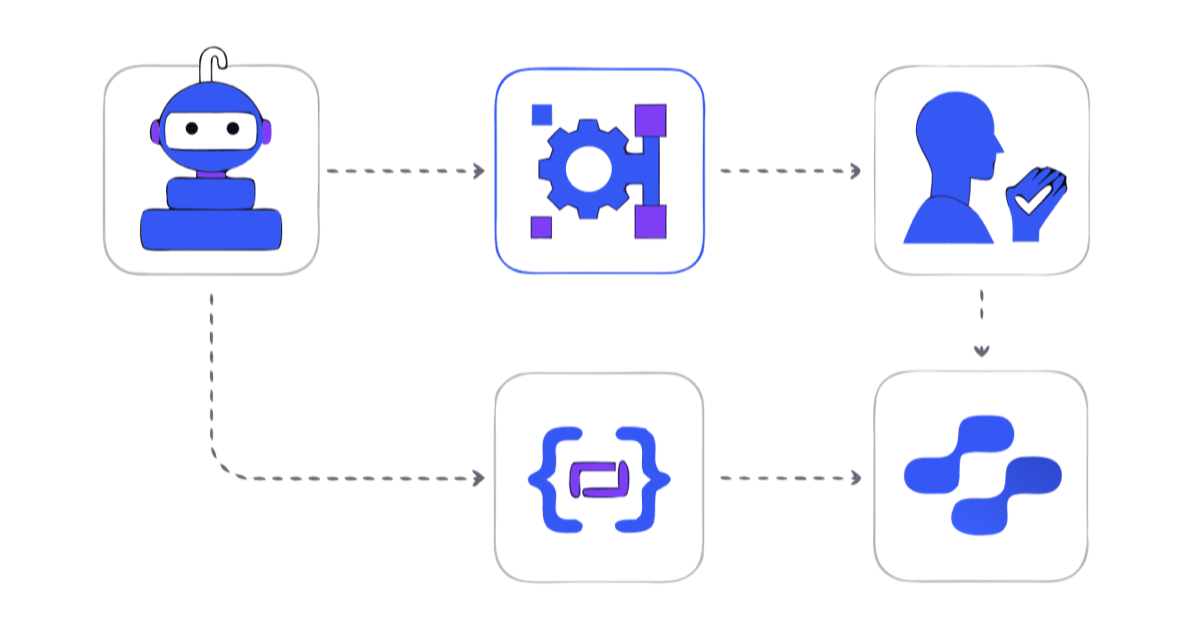
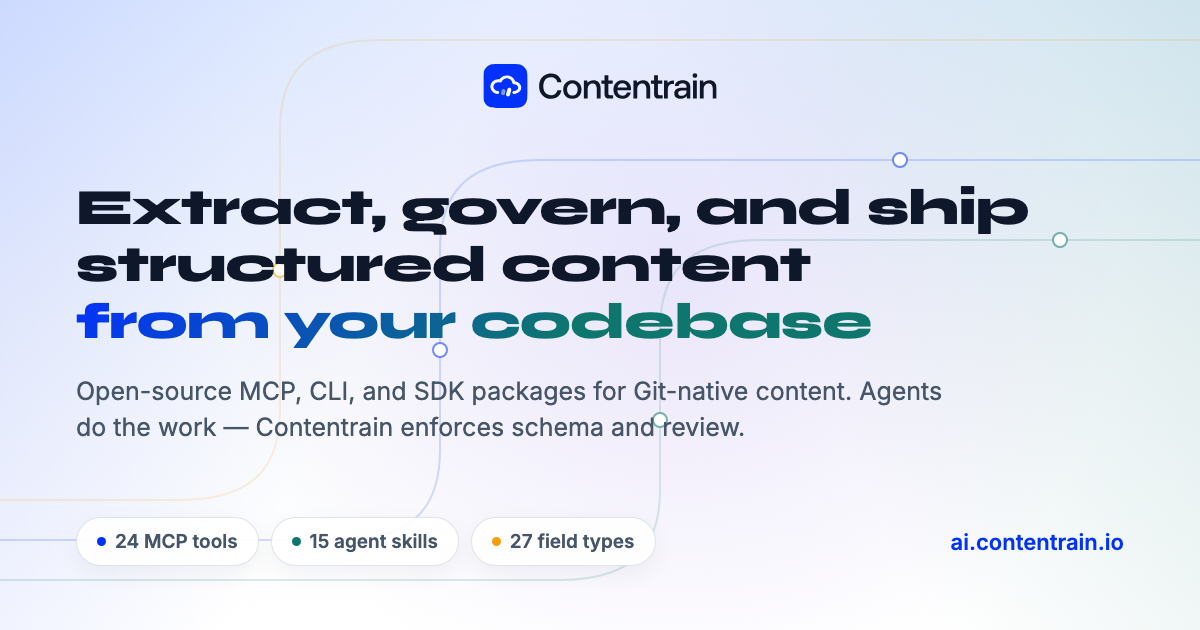
docs: replace generic OG image with branded template
The docs site OG image was a generic icon-flow illustration with no
brand alignment to the contentrain.io landing card. Added
scripts/og-image.html as the reproducible 1200x630 source (same visual
language as the landing template) and regenerated docs/public/og-image.png
with the docs-specific headline, chips (24 MCP tools / 15 agent skills /
27 field types), and ai.contentrain.io URL.

diff --git a/scripts/og-image.html b/scripts/og-image.html
@@ -1,0 +1,113 @@
+<!doctype html>
+<!--
+  Source template for docs/public/og-image.png (1200x630).
+  Kept visually consistent with the landing OG template in the iterum repo.
+  Regenerate with:
+  "/Applications/Google Chrome.app/Contents/MacOS/Google Chrome" --headless=new --disable-gpu \
+    --screenshot=docs/public/og-image.png --window-size=1200,630 --hide-scrollbars \
+    --virtual-time-budget=8000 "file://$PWD/scripts/og-image.html"
+-->
+<html lang="en">
+<head>
+<meta charset="utf-8">
+<link rel="preconnect" href="https://fonts.googleapis.com">
+<link rel="preconnect" href="https://fonts.gstatic.com" crossorigin>
+<link href="https://fonts.googleapis.com/css2?family=Inter:wght@400;500;600;700&family=Syne:wght@600;700;800&display=swap" rel="stylesheet">
+<style>
+  * { margin: 0; padding: 0; box-sizing: border-box; }
+  html, body { width: 1200px; height: 630px; overflow: hidden; }
+  body {
+    font-family: "Inter", sans-serif;
+    color: #0f172a;
+    background:
+      linear-gradient(115deg, rgba(3, 49, 252, 0.13), transparent 35%),
+      linear-gradient(245deg, rgba(15, 118, 110, 0.12), transparent 38%),
+      radial-gradient(circle at 56% 44%, rgba(124, 58, 237, 0.1), transparent 28rem),
+      linear-gradient(180deg, #eaf3ff 0%, #f8fafc 54%, #ffffff 100%);
+    position: relative;
+  }
+  .graph { position: absolute; inset: 0; }
+  .frame {
+    position: relative;
+    height: 100%;
+    padding: 64px 76px;
+    display: flex;
+    flex-direction: column;
+    justify-content: space-between;
+  }
+  .logo { height: 44px; width: auto; display: block; }
+  h1 {
+    font-family: "Syne", sans-serif;
+    font-weight: 800;
+    font-size: 50px;
+    line-height: 1.14;
+    letter-spacing: -0.01em;
+    max-width: 1048px;
+    white-space: nowrap;
+  }
+  h1 .accent {
+    background: linear-gradient(135deg, #0331fc, #0f766e 62%);
+    -webkit-background-clip: text;
+    background-clip: text;
+    color: transparent;
+  }
+  .sub {
+    margin-top: 22px;
+    font-size: 25px;
+    line-height: 1.45;
+    color: #475569;
+    max-width: 880px;
+  }
+  .foot { display: flex; align-items: center; justify-content: space-between; }
+  .chips { display: flex; gap: 12px; }
+  .chip {
+    display: inline-flex;
+    align-items: center;
+    gap: 9px;
+    border: 1px solid rgba(148, 163, 184, 0.3);
+    border-radius: 999px;
+    background: rgba(255, 255, 255, 0.92);
+    padding: 12px 20px;
+    color: #475569;
+    font-size: 19px;
+    font-weight: 600;
+    box-shadow: 0 8px 24px rgba(15, 23, 42, 0.05);
+  }
+  .chip i { width: 9px; height: 9px; border-radius: 999px; background: #0331fc; }
+  .chip:nth-child(2) i { background: #0f766e; }
+  .chip:nth-child(3) i { background: #f59e0b; }
+  .url { font-size: 22px; font-weight: 600; color: #0331fc; }
+</style>
+</head>
+<body>
+  <svg class="graph" viewBox="0 0 1200 630" fill="none" xmlns="http://www.w3.org/2000/svg">
+    <g stroke-width="2" stroke-linecap="round">
+      <path d="M-40 540 H 340 C 420 540 440 500 440 450 V 250 C 440 200 460 160 540 160 H 1240" stroke="rgba(3,49,252,0.16)"/>
+      <path d="M-40 580 H 560 C 640 580 660 540 660 490 V 330 C 660 280 680 240 760 240 H 1240" stroke="rgba(15,118,110,0.15)"/>
+      <path d="M-40 500 H 180 C 260 500 280 460 280 410 V 130 C 280 80 300 40 380 40 H 1240" stroke="rgba(245,158,11,0.14)"/>
+    </g>
+    <g fill="#ffffff">
+      <circle cx="440" cy="350" r="7" stroke="rgba(3,49,252,0.55)" stroke-width="2"/>
+      <circle cx="660" cy="420" r="7" stroke="rgba(15,118,110,0.55)" stroke-width="2"/>
+      <circle cx="280" cy="270" r="7" stroke="rgba(245,158,11,0.54)" stroke-width="2"/>
+      <circle cx="900" cy="160" r="7" stroke="rgba(3,49,252,0.55)" stroke-width="2"/>
+      <circle cx="1060" cy="240" r="7" stroke="rgba(15,118,110,0.55)" stroke-width="2"/>
+    </g>
+  </svg>
+  <div class="frame">
+    <img class="logo" src="../docs/public/logo/color-icon-black-text.svg" alt="Contentrain AI">
+    <div>
+      <h1>Extract, govern, and ship<br>structured content<br><span class="accent" style="white-space: nowrap;">from your codebase</span></h1>
+      <p class="sub">Open-source MCP, CLI, and SDK packages for Git-native content. Agents do the work — Contentrain enforces schema and review.</p>
+    </div>
+    <div class="foot">
+      <div class="chips">
+        <span class="chip"><i></i>24 MCP tools</span>
+        <span class="chip"><i></i>15 agent skills</span>
+        <span class="chip"><i></i>27 field types</span>
+      </div>
+      <span class="url">ai.contentrain.io</span>
+    </div>
+  </div>
+</body>
+</html>
